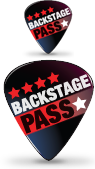
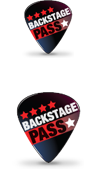
USER LEVELS - added blank picks - modified design slightly
OTHER
- clicking "notes" in starbar opens rewards center

diff --git a/public/css/starbar-hellomusic.css b/public/css/starbar-hellomusic.css
@@ -473,9 +473,13 @@
 
 /* user level */
 
+#sayso-starbar #sb_popBox_user-level .sb_header{
+	border-bottom: 1px solid #929292;
+}
+
 #sayso-starbar #sb_popBox_user-level .sb_userLevelIcons{
 	float: left;
-	margin: 0px 5px 0px 0px;
+	margin: 0px 0px 0px 0px;
 	text-align: center;
 }
 
@@ -489,7 +493,7 @@
 }
 
 #sayso-starbar #sb_popBox_user-level .sb_userLevelImg{
-	height: 110px;
+	height: 80px;
 	width: 100%;
 	background-repeat: no-repeat;
 	background-position: center bottom;
@@ -498,7 +502,7 @@
 
 #sayso-starbar #sb_popBox_user-level .sb_userLevel_earned .sb_userLevelImg,
 #sayso-starbar #sb_popBox_user-level .sb_userLevel_next .sb_userLevelImg{
-	margin: 50px 0px 0px 0px;
+	margin: 20px 0px 0px 0px;
 	height: 60px;
 	background-position: center 0px;
 }
@@ -516,9 +520,13 @@
 	background-image: url('../images/hellomusic/img_level_busker.png');
 }
 
-
 #sayso-starbar #sb_popBox_user-level .sb_userLevel_band-member{
 	background-image: url('../images/hellomusic/img_level_band-member.png');
+}
+
+
+#sayso-starbar #sb_popBox_user-level .sb_userLevel_empty{
+	background-image: url('../images/hellomusic/img_level_empty.png');
 }
 
 
@@ -928,13 +936,13 @@
 }
 
 #sayso-starbar #sb_popBox_rewards.sb_triangle-border:before{
-	left: 370px;
+	left: 490px;
 }
 #sayso-starbar #sb_popBox_rewards.sb_triangle-border:after{
-	left: 371px;
+	left: 491px;
 }
 #sayso-starbar #sb_popBox_rewards .sb_triangle-solid:after{
-	left: 367px;
+	left: 487px;
 }
 
 /* accordions */
